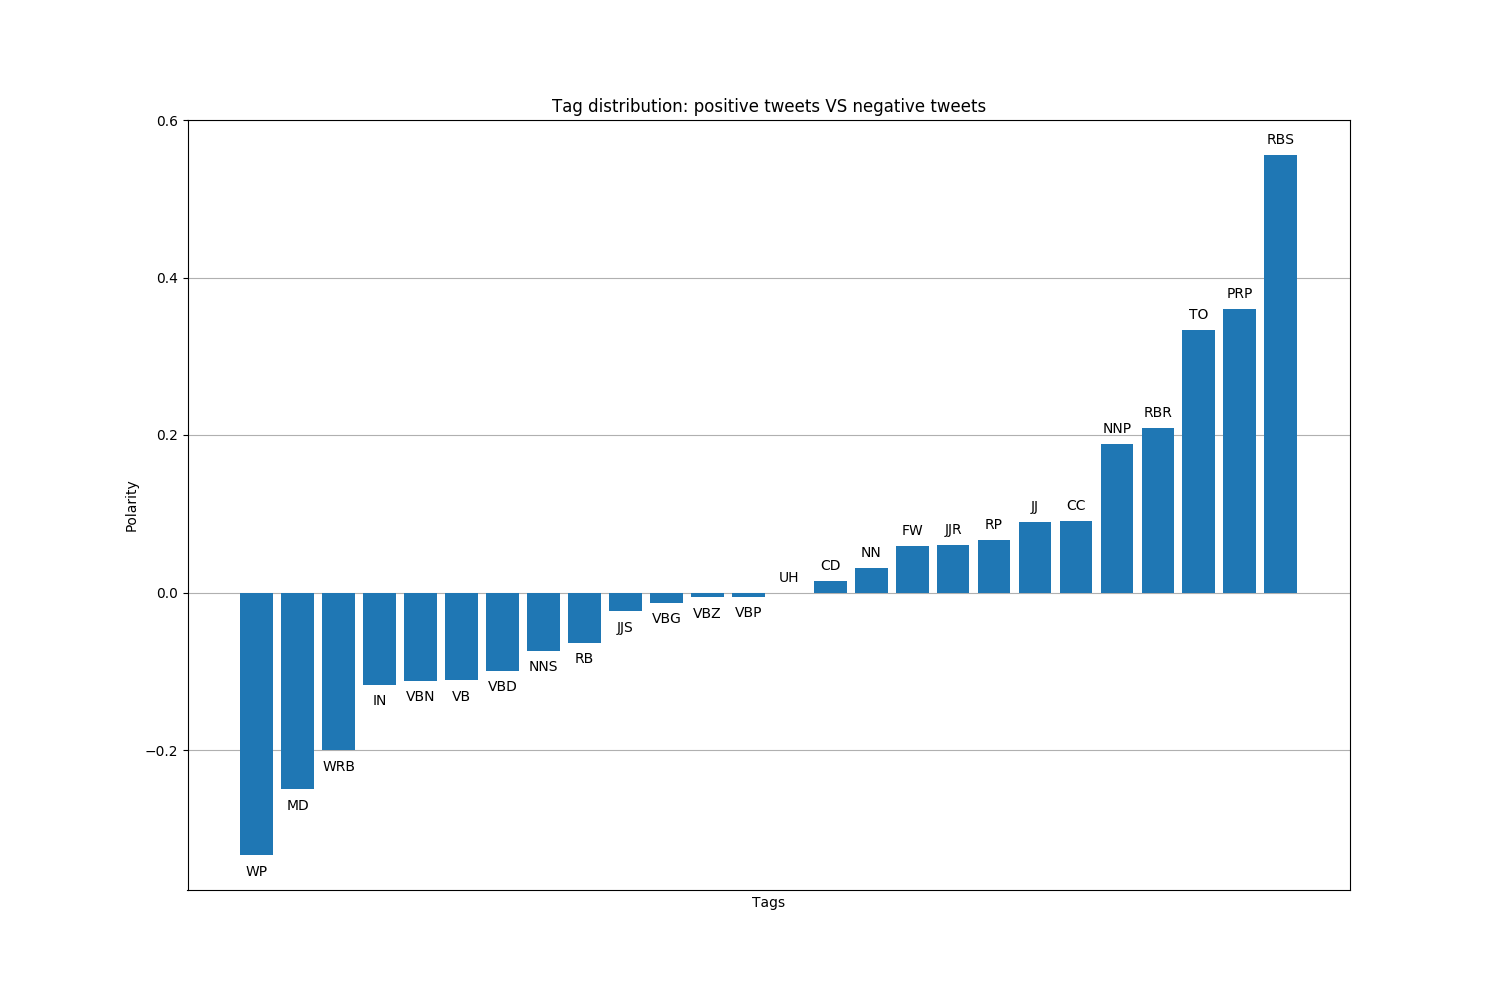
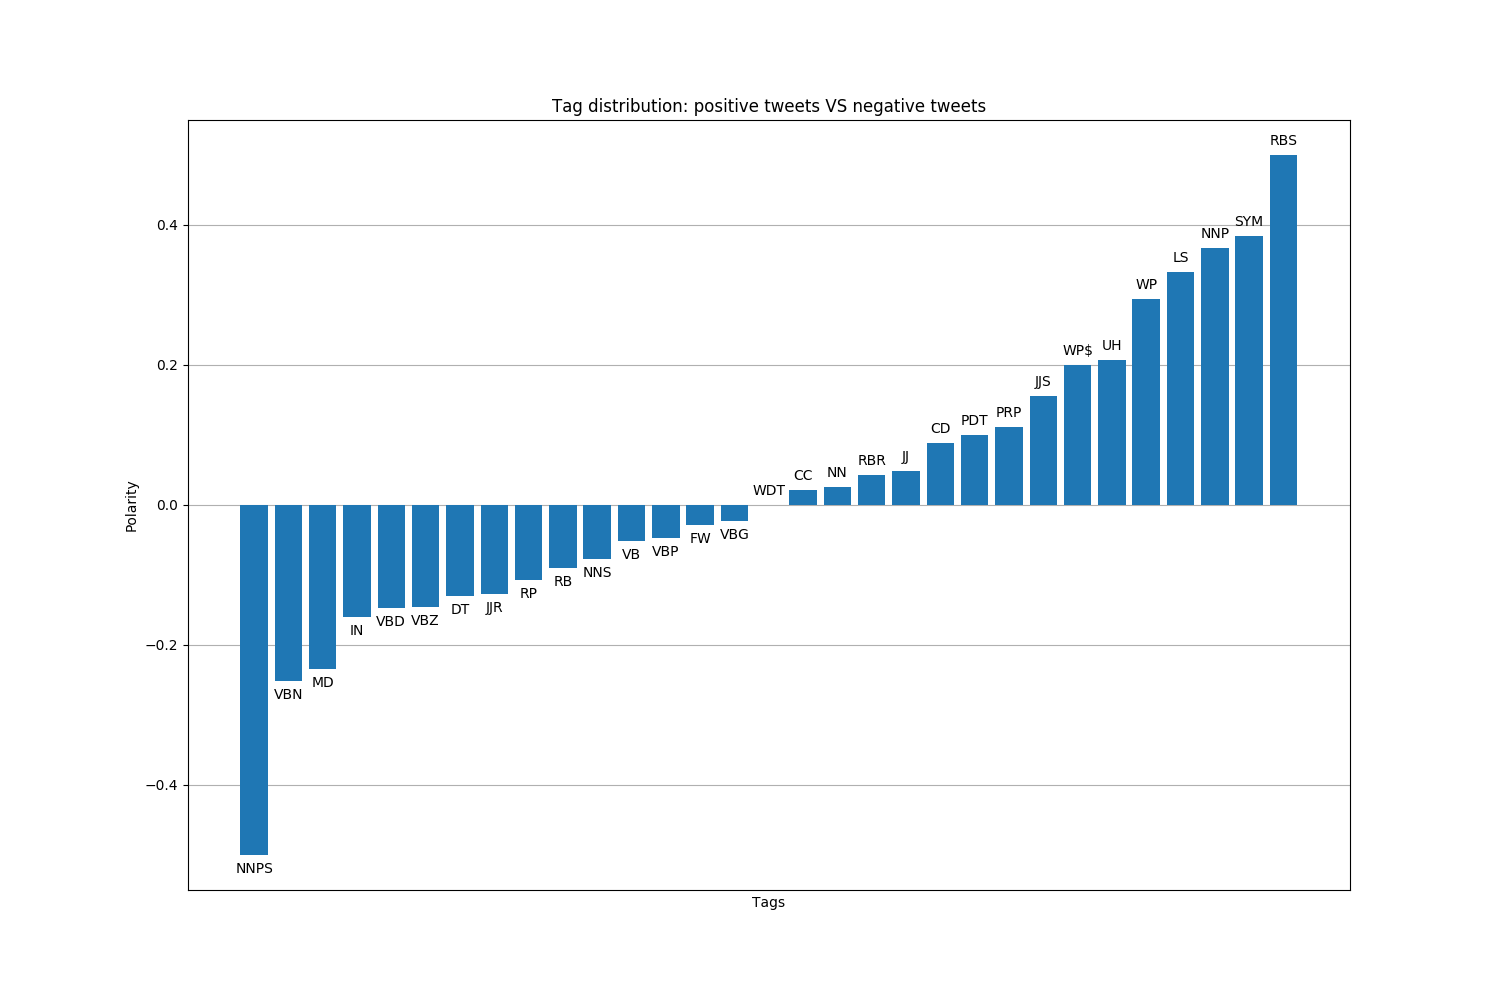
Updated classification scripts

Changed region(s): [[0.1533, 0.124, 0.8893, 0.899]]

diff --git a/scripts/train_set_analysis.py b/scripts/train_set_analysis.py
@@ -1,35 +1,19 @@
 import matplotlib.pyplot as plt
 import pandas as pd
 
+import ipdb
+
 from collections import Counter
 from collections import defaultdict
 from nltk.tokenize import TweetTokenizer
 from nltk.corpus import stopwords
 from nltk import pos_tag
+from tqdm import tqdm
+from wordcloud import WordCloud
 
-"""
-VISUALIZZAZIONI: VALORE DI P PER POST POSITIVI VS POST NEGATIVI
-
-                 PAROLE PIU' USATE PER POST NEGATIVI, POSITIVI E NEUTRI
-
-                 WORD CLOUD
-
-"""
-
-
-def clean_tweet_text(tweet):
-    tweet = tokenizer.tokenize(tweet)
-    tweet = [token for token in tweet if token.isalpha()]
-    tweet = [token for token in tweet if token not in stop_words]
-
-    return tweet
-
+# IMPORTING ###################################################################
 
 ds = pd.read_csv('../data/train.csv')
-
-tokenizer = TweetTokenizer(strip_handles=True, preserve_case=False,
-                           reduce_len=True)
-stop_words = stopwords.words('english')
 
 # DISTRIBUTION OF THE WORD FREQUENCIES ########################################
 
@@ -49,9 +33,21 @@ plt.title('Distribution of the word frequencies')
 plt.savefig('../images/word_frequencies.png')
 plt.close()
 
-# TEXT CLEANING ###############################################################
+# CLEANING ####################################################################
 
-ds.tweet = ds.tweet.apply(clean_tweet_text)
+tokenizer = TweetTokenizer(strip_handles=True, preserve_case=False,
+                           reduce_len=True)
+stop_words = stopwords.words('english')
+
+ds.tweet = [tokenizer.tokenize(tweet) for tweet in
+            tqdm(ds.tweet, desc='TOKENIZATION')]
+print()
+ds.tweet = [pos_tag(tokens) for tokens in
+            tqdm(ds.tweet, desc='POS TAGGING')]
+print()
+ds.tweet = [[token for token in tokens if token[0].isalpha() and
+             token[0] not in stop_words] for tokens in
+            tqdm(ds.tweet, desc='CLEANING')]
 
 # TAG DISTRIBUTION FOR POSITIVE TWEETS VS NEGATIVE TWEETS #####################
 
@@ -59,12 +55,12 @@ samples = dict()
 tags_counter = defaultdict(list)
 
 for label in ['positive', 'negative']:
-    samples[label] = ds[ds.label == label].sample(1000, random_state=42)
-    samples[label]['tags'] = [pos_tag(t) for t in samples[label].tweet]
+    samples[label] = ds[ds.label == label].sample(5000, random_state=42)
 
-    for tags in samples[label].tags:
-        for tag in tags:
-            tags_counter[label].append(tag[1])
+    for tokens in samples[label].tweet:
+        for token in tokens:
+            if token[1] not in ['$', "''"]:
+                tags_counter[label].append(token[1])
 
 tags_counter = {'positive': Counter(tags_counter['positive']),
                 'negative': Counter(tags_counter['negative'])}
@@ -106,17 +102,16 @@ tags_counter = defaultdict(list)
 
 for label in ['objective', 'subjective']:
     if label == 'objective':
-        samples[label] = ds[ds.label == 'neutral'].sample(1000,
+        samples[label] = ds[ds.label == 'neutral'].sample(5000,
                                                           random_state=42)
     else:
-        samples[label] = ds[ds.label != 'neutral'].sample(1000,
+        samples[label] = ds[ds.label != 'neutral'].sample(5000,
                                                           random_state=42)
 
-    samples[label]['tags'] = [pos_tag(t) for t in samples[label].tweet]
-
-    for tags in samples[label].tags:
-        for tag in tags:
-            tags_counter[label].append(tag[1])
+    for tokens in samples[label].tweet:
+        for token in tokens:
+            if token[1] not in ['$', "''"]:
+                tags_counter[label].append(token[1])
 
 tags_counter = {'objective': Counter(tags_counter['objective']),
                 'subjective': Counter(tags_counter['subjective'])}
@@ -150,3 +145,36 @@ plt.ylabel('Polarity')
 plt.title('Tag distribution: objective tweets VS subjective tweets')
 plt.savefig('../images/tag_distribution_objective_vs_subjective.png')
 plt.close()
+
+# WORDCLOUD ###################################################################
+
+ds = pd.read_csv(
+    '../data/preprocessed_train.csv',
+    converters={'tweet': lambda x: x[1:-1].replace("'", "").split(', ')})
+
+texts_dict = dict()
+
+for label in ['positive', 'negative']:
+    tweets = ds[ds.label == label].tweet.tolist()
+    tot_lst = list()
+
+    for l in tweets:
+        tot_lst += l
+
+    texts_dict[label] = tot_lst
+
+texts_sets = {'positive': set(texts_dict['positive']),
+              'negative': set(texts_dict['negative'])}
+intersection = texts_sets['positive'].intersection(texts_sets['negative'])
+
+for label in ['positive', 'negative']:
+    wordcloud = WordCloud(
+        stopwords=stop_words, background_color="white",
+        colormap='Greens' if label == 'positive' else 'Reds').\
+        generate(' '.join([word for word in texts_dict[label]
+                          if word not in intersection]))
+
+    plt.imshow(wordcloud, interpolation='bilinear')
+    plt.axis("off")
+    plt.savefig('../images/{}_tokens_wordcloud.png'.format(label))
+    plt.close()

diff --git a/scripts/svm_nb_classification.py b/scripts/svm_nb_classification.py
@@ -12,6 +12,7 @@ from sklearn.model_selection import GridSearchCV
 from sklearn.model_selection import train_test_split
 from sklearn.naive_bayes import MultinomialNB
 from sklearn.pipeline import Pipeline
+from sklearn.svm import LinearSVC
 
 
 def remove_alpha(tweet):
@@ -21,7 +22,11 @@ def remove_alpha(tweet):
 
 c_type = input('CLASSIFICATION TYPE[SO, PN, A]: ')
 
+# IMPORTING ###################################################################
+
 trainset = pd.read_csv('../data/train.csv')
+
+# PREPROCESSING ###############################################################
 
 if c_type == 'SO':
     trainset.label = trainset.label.\
@@ -32,6 +37,8 @@ elif c_type == 'PN':
 else:
     trainset.label = trainset.label.\
       map({'positive': 1, 'negative': 2, 'neutral': 3})
+
+# VALIDATION ##################################################################
 
 X_train, X_test, y_train, y_test = \
   train_test_split(trainset.tweet, trainset.label, test_size=0.2)
@@ -46,29 +53,33 @@ vectorizer = CountVectorizer(preprocessor=remove_alpha,
 transformer = TfidfTransformer()
 selectioner = SelectKBest(chi2)
 
-learner = MultinomialNB()
+l_type = input('LEARNER[SVM/NB]: ')
+assert l_type in ['SVM', 'NB']
+
+learner = LinearSVC() if l_type == 'SVM' else MultinomialNB()
 
 pipe = Pipeline([('vect', vectorizer), ('trans', transformer),
-                ('select', selectioner), ('bayes', learner)])
+                ('select', selectioner), (l_type.lower(), learner)])
 
 parameters = {'vect__ngram_range': ((1, 1), (1, 2)),
               'trans__sublinear_tf': (False, True),
-              'select__k': (1000, 2000, 5000),
-              'bayes__alpha': tuple(np.linspace(0.1, 1., 3))}
+              'select__k': (1000, 2000, 5000)}
+
+if l_type == 'SVM':
+    parameters['svm__C'] = tuple(np.linspace(0.1, 1., 3))
+else:
+    parameters['nb__alpha'] = tuple(np.linspace(0.1, 1., 3))
 
 classifier = GridSearchCV(pipe, parameters, n_jobs=-1, verbose=3,
                           scoring='f1_macro', cv=3)
 classifier.fit(X_train.values, y_train.values)
 
-best_parameters = classifier.best_estimator_.get_params()
-for param_name in sorted(parameters.keys()):
-    print("\t%s: %r" % (param_name, best_parameters[param_name]))
-
 # PREDICTION ##################################################################
 
 predictions = classifier.predict(X_test.values)
 
-pd.DataFrame(classification_report(y_test, predictions, output_dict=True)).\
-    transpose().to_csv('../results/classification_report_bayes_{}.csv'.
-                       format(c_type))
-
+pd.DataFrame(classification_report(y_test.values, predictions,
+                                   output_dict=True)).\
+    transpose().\
+    to_csv('../results/classification_report_{}_{}.csv'.format(l_type.lower(),
+                                                               c_type))

diff --git a/scripts/dataset_preprocessing.py b/scripts/dataset_preprocessing.py
@@ -5,6 +5,7 @@ from nltk.corpus import stopwords
 from nltk.corpus import wordnet
 from nltk.stem import WordNetLemmatizer
 from nltk.tokenize import TweetTokenizer
+from tqdm import tqdm
 
 tag_dict = {"J": wordnet.ADJ,
             "N": wordnet.NOUN,
@@ -18,45 +19,57 @@ def get_wn_pos(token):
 
 # IMPORTING THE TRAINING SET AND THE TEST SET #################################
 
-print('IMPORTING')
-
 trainset = pd.read_csv('../data/train.csv')
 
 # TOKENIZATION ################################################################
 
-print('TOKENIZATION')
-
 tokenizer = TweetTokenizer(strip_handles=True, preserve_case=False,
                            reduce_len=True)
 
-trainset.tweet = [tokenizer.tokenize(tweet) for tweet in trainset.tweet]
+trainset.tweet = [tokenizer.tokenize(tweet) for tweet in
+                  tqdm(trainset.tweet, desc='TOKENIZATION')]
 
 # POS TAGGING #################################################################
 
-print('POS TAGGING')
-
-trainset.tweet = [pos_tag(tweet) for tweet in trainset.tweet]
+trainset.tweet = [pos_tag(tweet) for tweet in
+                  tqdm(trainset.tweet, desc='POS TAGGING')]
 
 # STOP WORD CLEANING AND REDUCTION TO ONLY ALPHANUMERIC TOKENS ################
-
-print('CLEANING')
 
 stopwords = stopwords.words('english')
 
 trainset.tweet = [[token for token in tweet if token[0].isalpha() and
-                  token[0] not in stopwords] for tweet in trainset.tweet]
+                  token[0] not in stopwords] for tweet in
+                  tqdm(trainset.tweet, desc='CLEANING')]
 
 # LEMMATIZATION ###############################################################
-
-print('LEMMATIZATION')
 
 lemmatizer = WordNetLemmatizer()
 
 trainset.tweet = [[lemmatizer.lemmatize(token[0], get_wn_pos(token)) for
-                  token in tweet] for tweet in trainset.tweet]
+                  token in tweet] for tweet in
+                  tqdm(trainset.tweet, desc='LEMMATIZATION')]
+
+# REMOVING WORDS THAT ARE PRESENT IN ALL THE LABELS ###########################
+
+tokens_set_per_label = dict()
+
+for label in ['positive', 'negative', 'neutral']:
+    total_tokens_list = list()
+
+    for token_list in trainset[trainset.label == label].tweet:
+        for token in token_list:
+            total_tokens_list.append(token)
+
+    tokens_set_per_label[label] = set(total_tokens_list)
+
+intersection = tokens_set_per_label['positive'].\
+    intersection(tokens_set_per_label['negative']).\
+    intersection(tokens_set_per_label['neutral'])
+
+trainset.tweet.apply(lambda x: [token for token in x if token not in
+                     intersection])
 
 # SAVING THE PREPROCESSED DATASETS ############################################
-
-print('SAVING')
 
 trainset.to_csv('../data/preprocessed_train.csv', index=False)

diff --git a/scripts/cnn_classification.py b/scripts/cnn_classification.py
@@ -12,6 +12,7 @@ from keras.optimizers import RMSprop
 from keras.preprocessing.text import Tokenizer
 from keras.preprocessing.sequence import pad_sequences
 from keras.utils import to_categorical
+from sklearn.model_selection import train_test_split
 from tqdm import tqdm
 
 # IMPORTING ###################################################################
@@ -19,9 +20,8 @@ from tqdm import tqdm
 trainset = pd.read_csv(
     '../data/preprocessed_train.csv',
     converters={'tweet': lambda x: x[1:-1].replace("'", "").split(', ')})
-testset = pd.read_csv(
-    '../data/preprocessed_test.csv',
-    converters={'tweet': lambda x: x[1:-1].replace("'", "").split(', ')})
+
+trainset, testset = train_test_split(trainset, test_size=0.2)
 
 # CHOOSING AND INDEXING WORD VECTORS ##########################################
 
